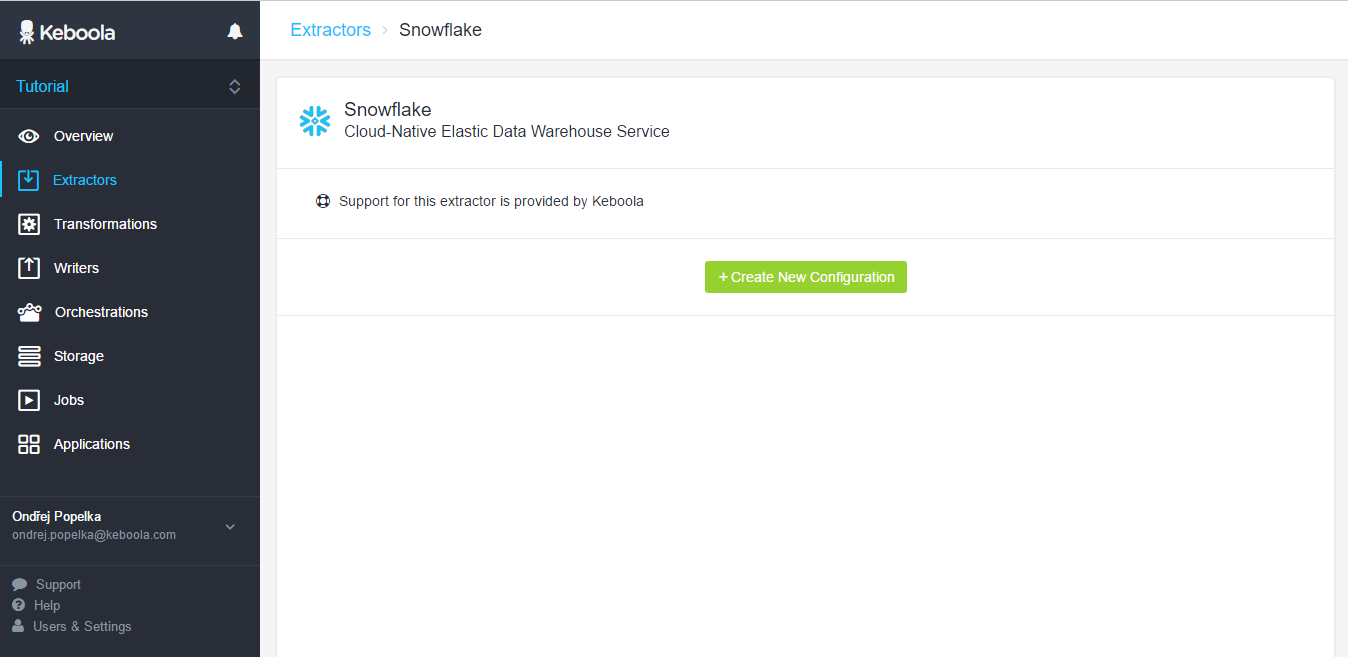
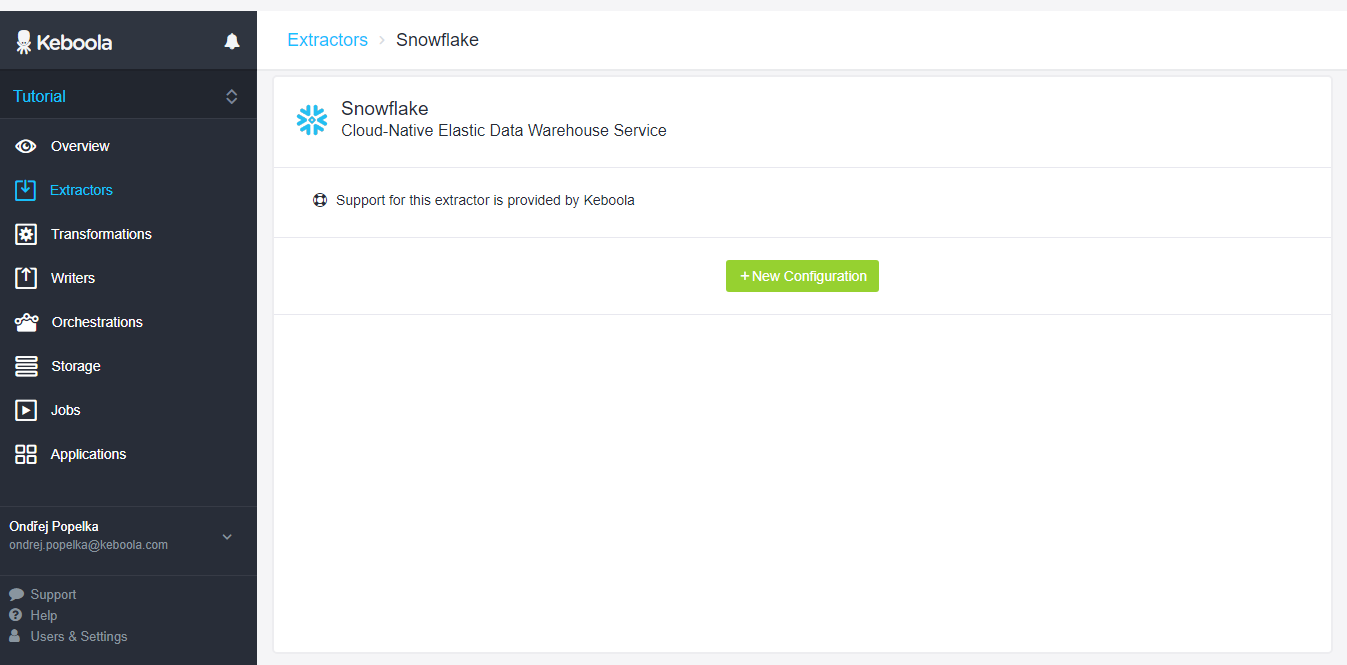
update

diff --git a/tutorial/load/database.md b/tutorial/load/database.md
@@ -23,7 +23,7 @@ Find **Snowflake**. You can use the search feature to find it quickly.
 
 Similarly to the [GoogleDrive extractor](/tutorial/load/googledrive/), the Snowflake extractor can
 have multiple configurations. As each configuration represents a single database connection, we only
-need one configuration. Continue with **Create New Configuration**.
+need one configuration. Continue with **New Configuration**.
 
 {: .image-popup}
 ![Screenshot - New Database Extractor Configuration](/tutorial/load/extractor-db-new.png)
